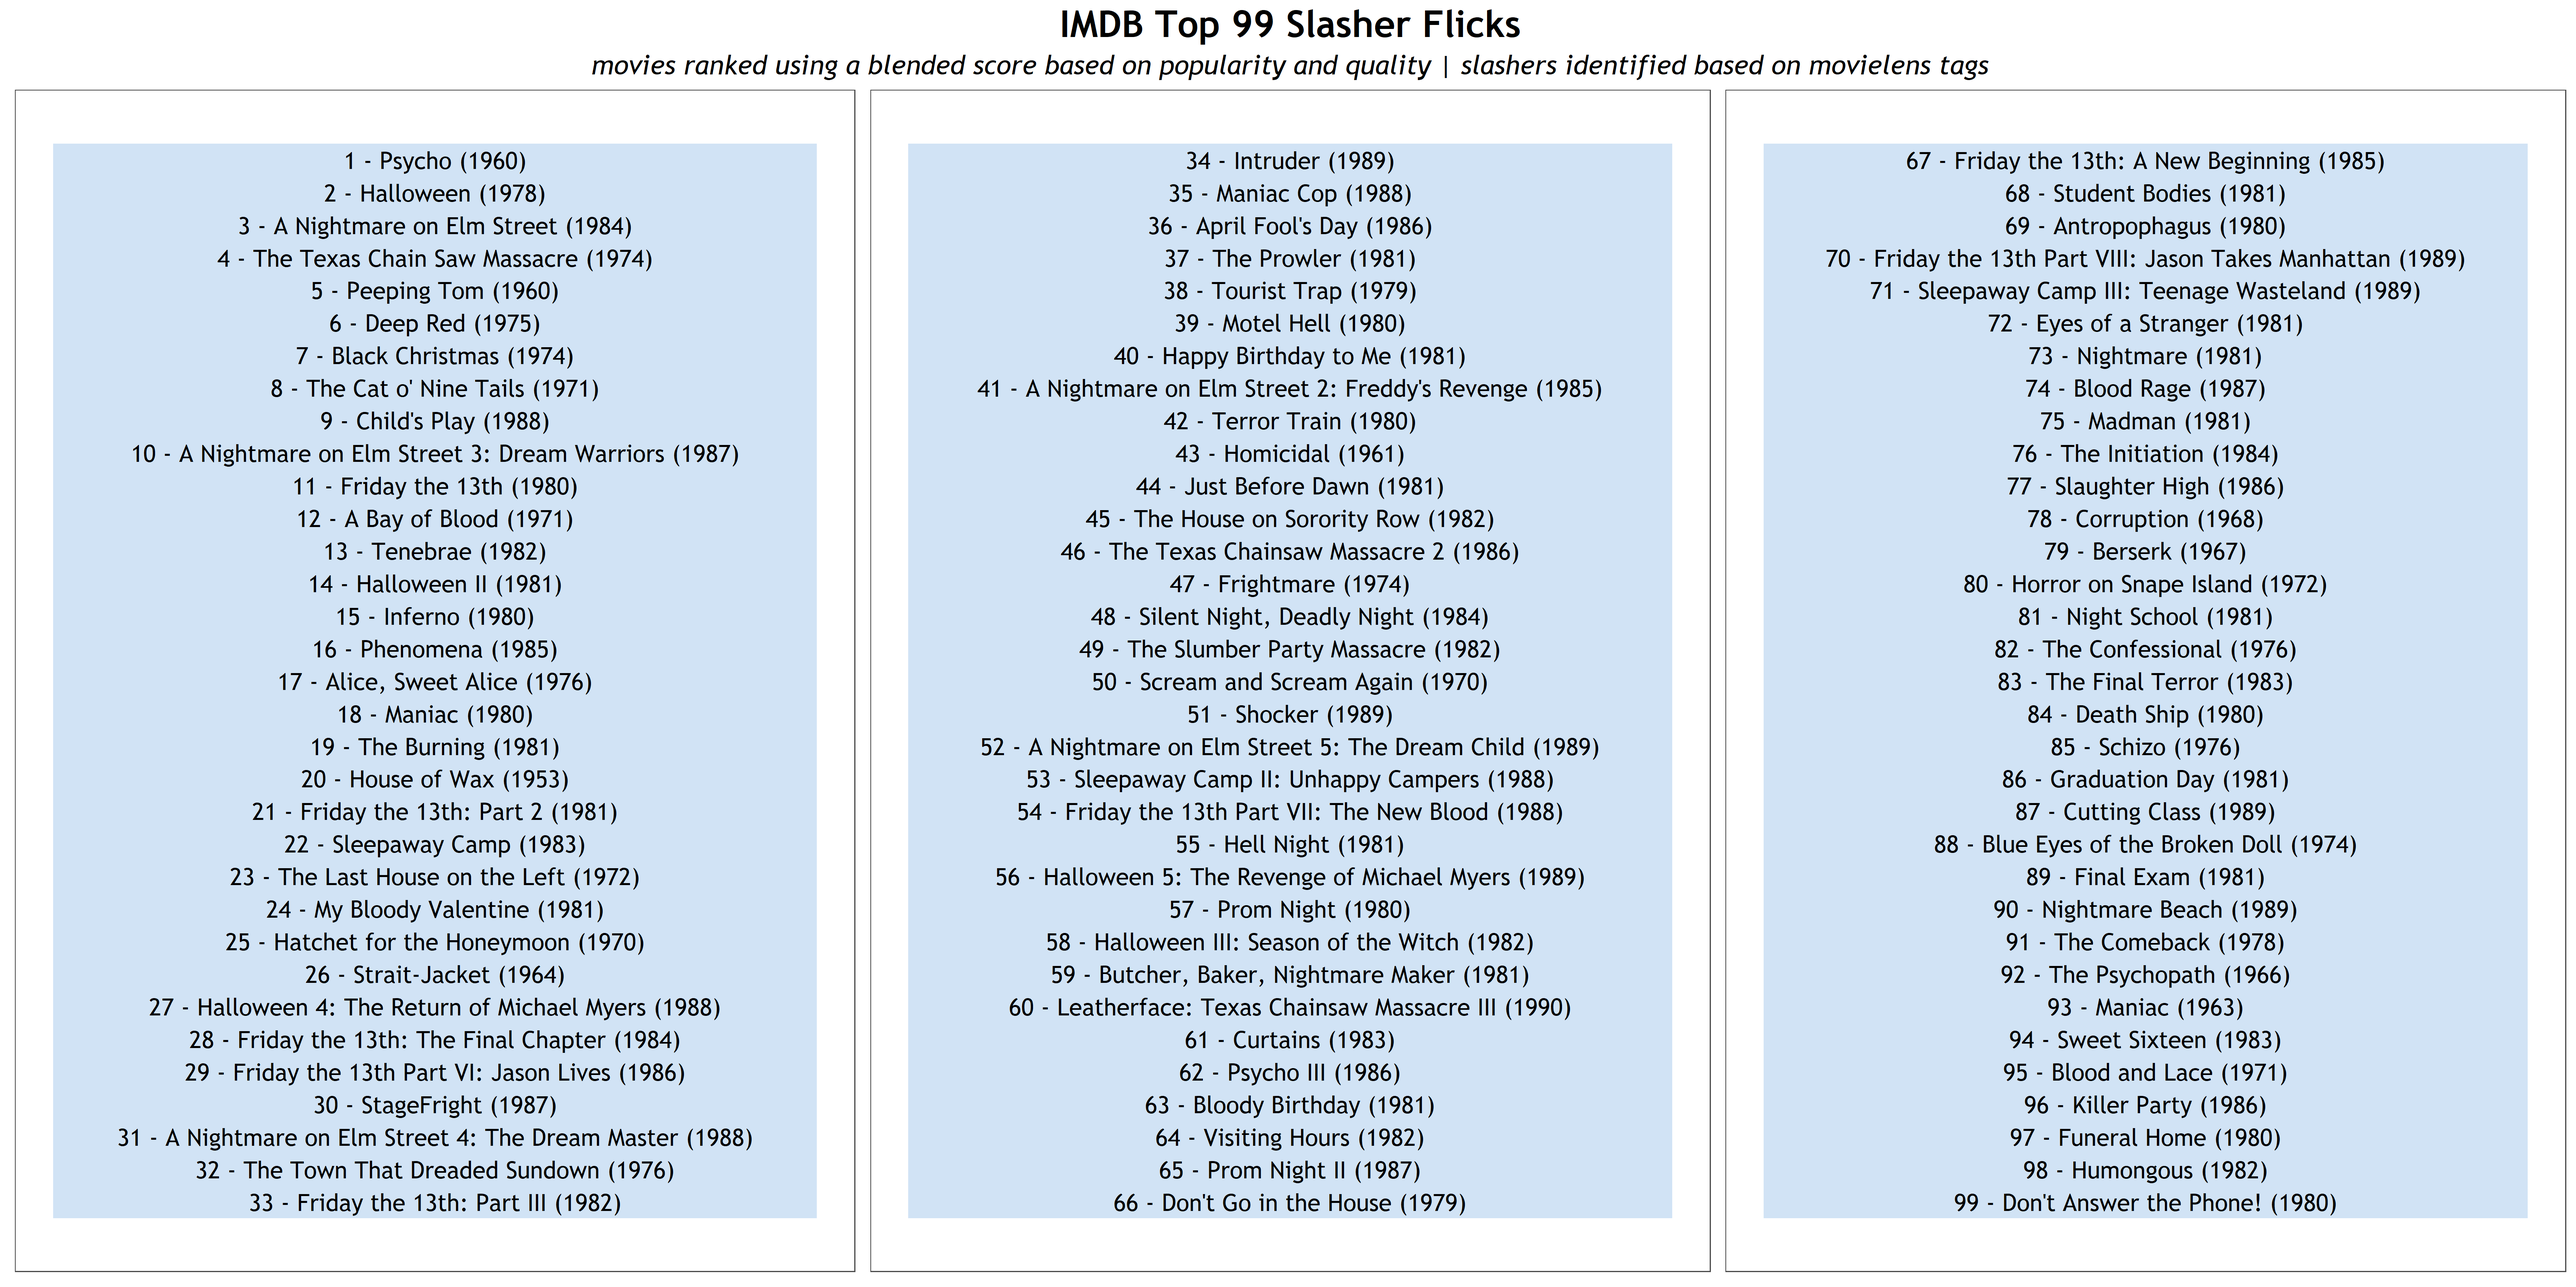
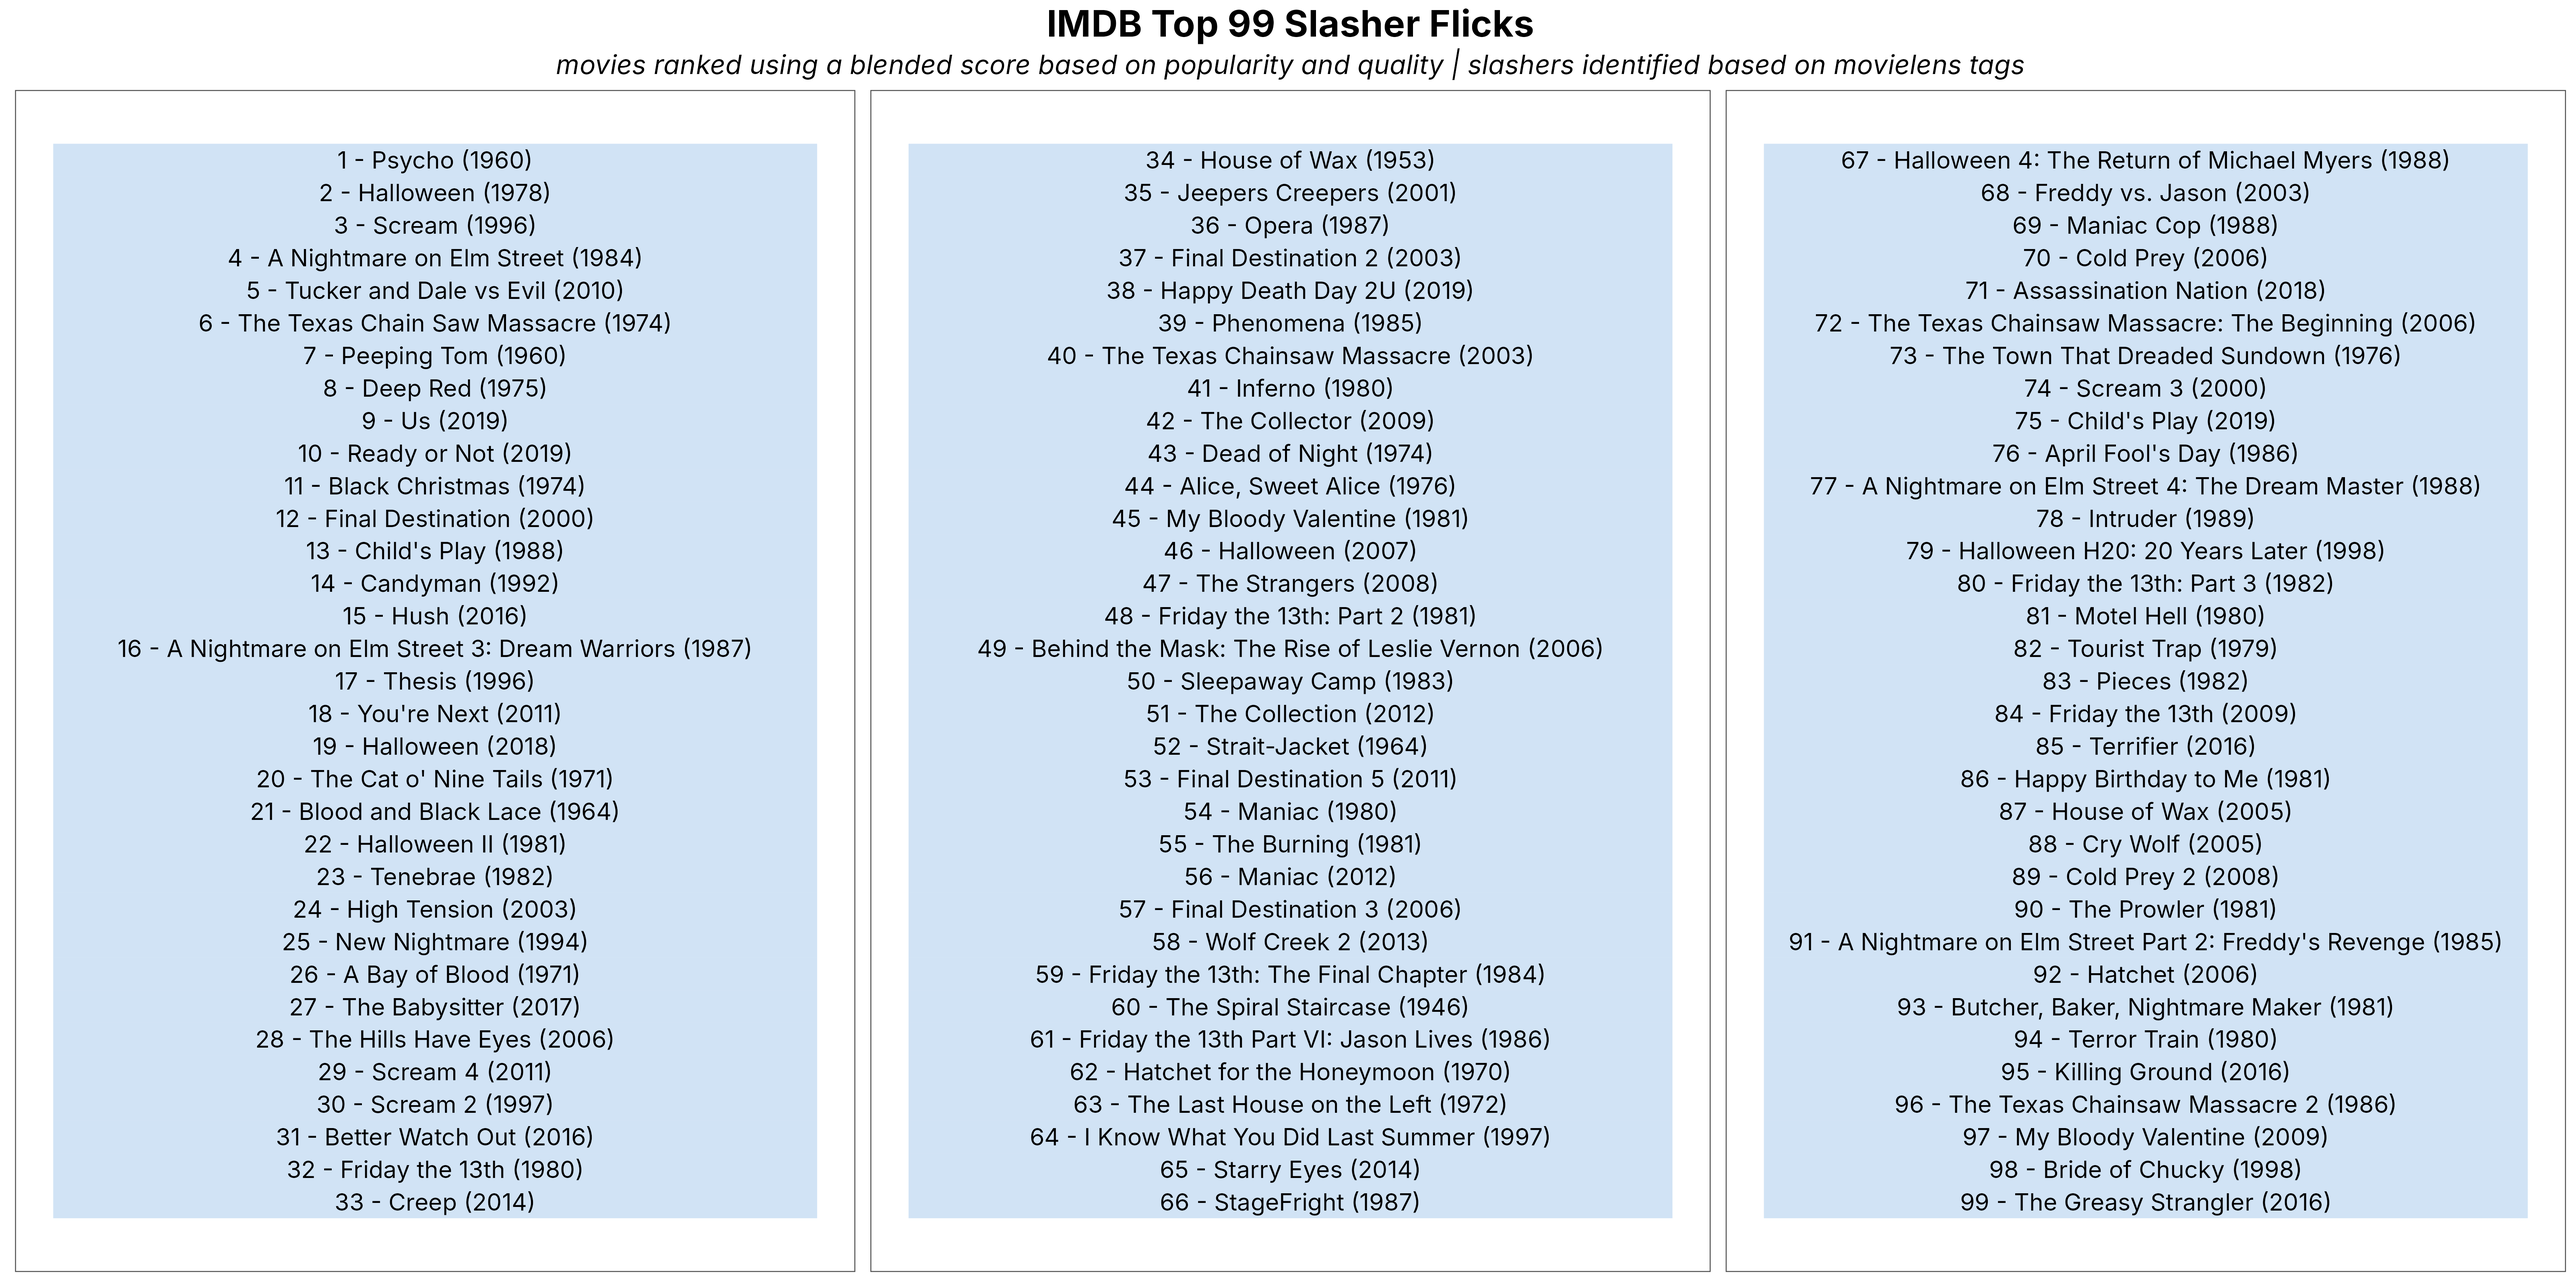
Load MovieLens from the private data repo, and run its two scripts
MovieLens can't be redistributed, and GroupLens's download fails in
cloud sessions, so a GitHub Action in the private loserpoints/private-data
repo now fetches it and stores it as Parquet. If that repo is cloned next
to this one, 00_get_data.R reads its copy; MOVIELENS_DIR points somewhere
else. Otherwise it downloads from GroupLens as before.

- Read imdbId in links.csv as a number. It's written with leading zeros,
  so DuckDB read it as text and the slasher and sports joins would have
  failed on the GroupLens path too
- Stop loading the ratings file, which no script uses
- top_99_sports_movies.R: load ggthemes, which it uses but never loaded
- Draw top_99_slashers.png on current data, and add
  top_99_sports_movies.png, which the script made but was never committed

Both scripts ran from the private copy, and gave the same chart on
repeated runs. The GroupLens path was tested on CSVs written in its
format, with zero-padded IMDb ids: it loads them as numbers and finds
the same 333 slasher-tagged movies.

Claude-Session: https://claude.ai/code/session_0182aehdMig3wBokXQpTfw3E

diff --git a/README.md b/README.md
@@ -12,8 +12,9 @@ Two public sources, downloaded the first time a script needs them:
 
 - **IMDb datasets** (`datasets.imdbws.com`) — titles, ratings, crew, episodes
   and names, published by IMDb as gzipped TSVs and refreshed daily.
-- **MovieLens** (GroupLens Research) — ratings, tags, links and the tag genome,
-  from the `ml-25m` release.
+- **MovieLens** (GroupLens Research) — tags, links and the tag genome, from
+  the `ml-25m` release. Its licence doesn't allow redistributing it, so it
+  isn't kept in this repo.
 
 `scripts/00_get_data.R` handles both. Every script sources it and calls
 `connect_movies_db()`, which downloads whatever is missing into `data/`, loads
@@ -23,9 +24,11 @@ install and no password to set. The first run downloads about 1 GB of IMDb
 files and takes several minutes; after that, scripts reuse the database file
 and start straight away.
 
-MovieLens (another 250 MB or so) is only fetched by the two scripts that use
-it, `top_99_slashers.R` and `top_99_sports_movies.R`, which call
-`connect_movies_db(movielens = TRUE)`.
+MovieLens is only loaded by the two scripts that use it, `top_99_slashers.R`
+and `top_99_sports_movies.R`, which call `connect_movies_db(movielens = TRUE)`.
+If the private `loserpoints/private-data` repo is cloned next to this one, its
+copy is used, already converted to Parquet; set `MOVIELENS_DIR` to point
+somewhere else. Otherwise the 250 MB zip is downloaded from GroupLens.
 
 To refresh the data, delete `data/` and run any script. It is gitignored.
 
